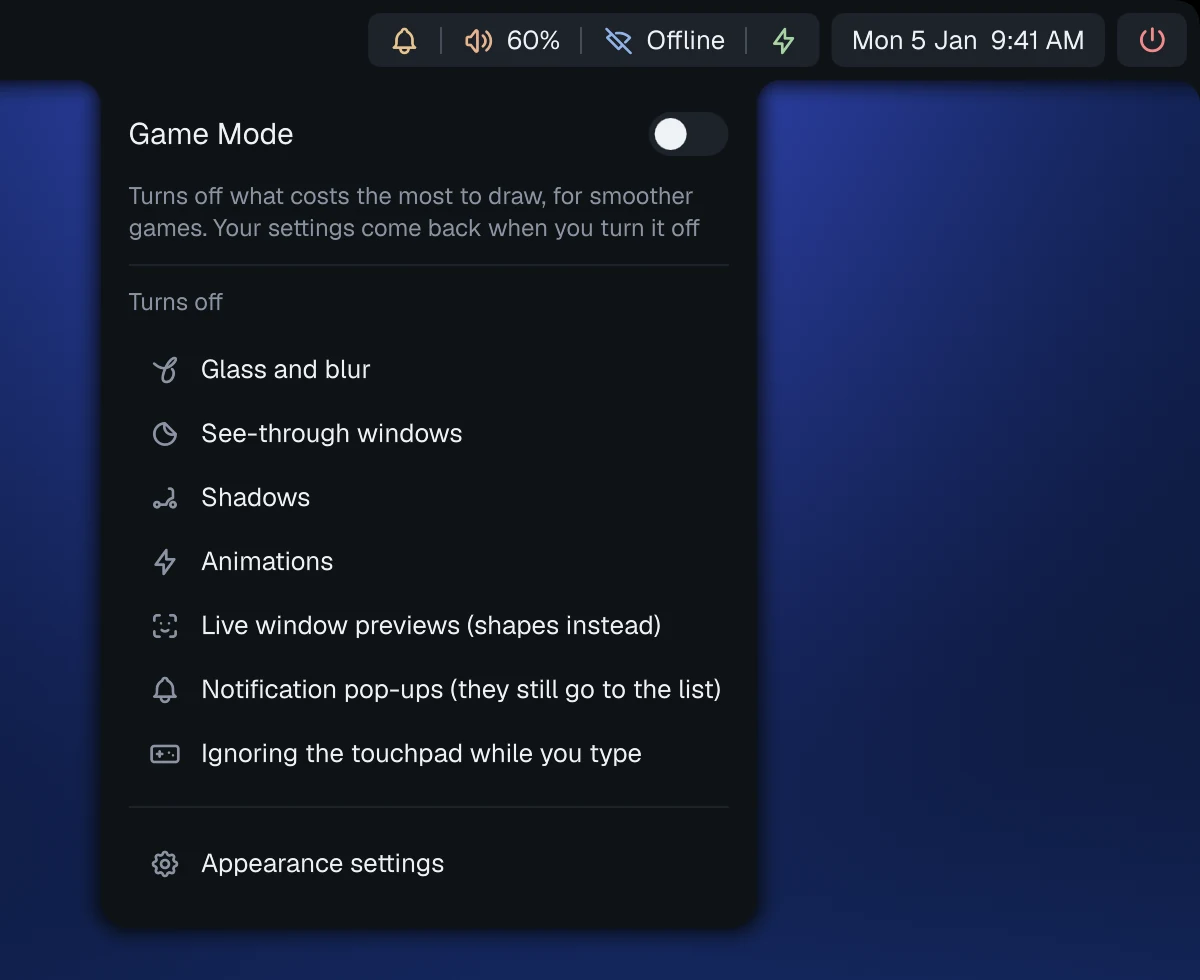
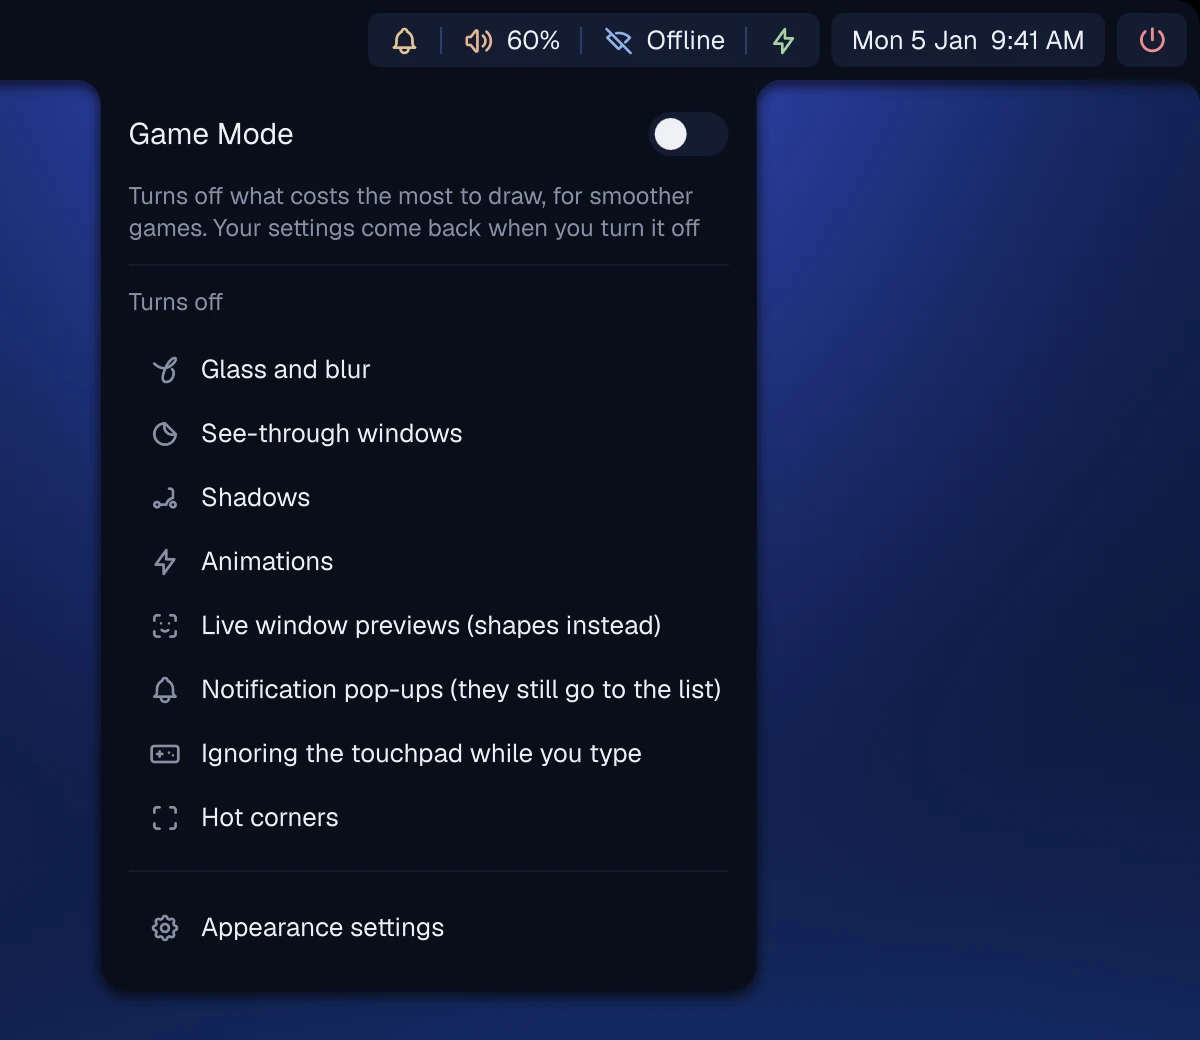
fix(accessibility): every panel control has a name, and hot corners rest in game mode
- Icon-only buttons in the bar's panels are named for a screen reader
  (Clear all, the calendar's month arrows, the control center's
  Settings, Power and media buttons), and a panel's title switch takes
  its title's words: each was read out as just "button". The keyboard
  walk through every panel now fails on any control without a name.
- Your own wallpapers in Settings are named by their file, and the one
  in use is said to be checked.
- Hot corners rest in game mode, where games that scroll at the screen's
  edges set them off; the game mode panel, Settings and the docs say so.

diff --git a/shell/shell.qml b/shell/shell.qml
@@ -140,17 +140,23 @@ ShellRoot {
         // (a card's close button and a space's delete show only once theirs has the keyboard):
         // { stops: what each says, gaps: every gap seen }
         function panelWalk(): string {
-            const gaps = popouts.unreachable(), said = [];
+            const gaps = popouts.unreachable(), said = [], unnamed = [];
             popouts.focusFirst(true);
             for (let i = 0; i < 200; i++) {
                 const f = popouts.contentItem.Window.activeFocusItem;
                 said.push(Config.textOf(f) || String(f).split("(")[0]);
+                // (a stop a screen reader reads as just "button": an icon with no words)
+                if (f && popouts.keyStops().indexOf(f) >= 0 && !(f.Accessible && String(f.Accessible.name || "").trim())) {
+                    const p = f.mapToItem(popouts.contentItem, 0, 0);
+                    const where = String(f).split("(")[0] + " @" + Math.round(p.x) + "," + Math.round(p.y);
+                    if (!unnamed.includes(where)) unnamed.push(where);
+                }
                 for (const g of popouts.unreachable()) if (!gaps.includes(g)) gaps.push(g);
                 const stops = popouts.keyStops();
                 if (stops.indexOf(f) < 0 || stops.indexOf(f) === stops.length - 1) break;
                 popouts.keyStep(true);
             }
-            return JSON.stringify({ stops: said, gaps: gaps });
+            return JSON.stringify({ stops: said, gaps: gaps, unnamed: unnamed });
         }
         // Arranging the menu bar without a pointer: what a drag, a click on the bar or a button
         // on the panel comes to (Config's bar… functions)
@@ -593,6 +599,7 @@ ShellRoot {
                          why: Config.iconsBusyWhy() },
                 picker: { open: picker.shown, mode: picker.mode, clipReads: picker.clipReads, emojiReads: Emoji.reads },
                 lookups: SettingsLookups.reads,
+                hotCorners: hotCorners.shownCount(),
                 trayMenu: { open: topBar.trayMenu.visible, depth: topBar.trayMenu.stack.length, hot: topBar.trayMenu.hot, chosen: topBar.trayMenu.testChosen,
                             lastInView: topBar.trayMenu.testHotInView() },
                 osd: { shown: osdPop.shown, mode: osdPop.mode, label: osdPop.label },

diff --git a/site/features.html b/site/features.html
@@ -133,7 +133,7 @@
         <li>Notifications, keyboard layout, Bluetooth, volume, Wi-Fi and battery, each optional; optionally tucked behind one button</li>
         <li>Clipboard (with how many items it holds) and screenshot buttons, off until you switch them on</li>
         <li>A camera indicator, off until you put it on the bar: an open eye, lit, while an app is using your camera (hover for which), a closed one otherwise</li>
-        <li>Game mode button (off until you switch it on): its panel turns off glass, blur, see-through windows, shadows, animations, live window previews (the switcher and overview show each window's shape and app icon instead), notification pop-ups (they still go to the list), ignoring the touchpad while you type and the pointer's trail, for smoother games, and puts them all back as you had them after</li>
+        <li>Game mode button (off until you switch it on): its panel turns off glass, blur, see-through windows, shadows, animations, live window previews (the switcher and overview show each window's shape and app icon instead), notification pop-ups (they still go to the list), ignoring the touchpad while you type, hot corners and the pointer's trail, for smoother games, and puts them all back as you had them after</li>
         <li>Optional values beside them: clipboard items, game mode on or off, layout code, connected devices, volume percentage, network name and battery percentage</li>
         <li>Clock: 12 or 24 hour, seconds, the date (12 hour with the date, no seconds, to start with)</li>
         <li>Power button</li>

diff --git a/shell/panels/ControlPanel.qml b/shell/panels/ControlPanel.qml
@@ -127,6 +127,7 @@ Column {
                     // Flat and solid, with glass too: the card's own solid colour, no edge and
                     // nothing showing through; under the pointer, the muted hover over it
                     readonly property color base: Config.palette.card
+                    Accessible.name: modelData.act === "settings" ? "Settings" : "Power"
                     color: controlButtonHover.hovered ? Qt.tint(base, Config.hover) : base
                     HoverHandler { id: controlButtonHover }
                     onClicked: {
@@ -257,6 +258,8 @@ Column {
                                 delegate: RowButton {
                                     required property var modelData
                                     width: 32; height: 30
+                                    Accessible.name: modelData.act === "prev" ? "Previous track" : modelData.act === "next" ? "Next track"
+                                        : (controlView.player && controlView.player.isPlaying ? "Pause" : "Play")
                                     onClicked: {
                                         const p = controlView.player; if (!p) return;
                                         if (modelData.act === "prev") p.previous();

diff --git a/shell/HotCorners.qml b/shell/HotCorners.qml
@@ -74,7 +74,10 @@ Scope {
     // (the corners all ask at the same moment: the first starts it, and all hear the answer)
     function askPointer() { if (!cursorCheck.running) cursorCheck.running = true; }
 
+    // (the tests: how many corners are there to rest the pointer in)
+    function shownCount() { return cornersVariants.instances.filter(c => c.visible).length; }
     Variants {
+        id: cornersVariants
         model: [
             { top: true, left: true, key: "hotCornerTopLeft" },
             { top: true, left: false, key: "hotCornerTopRight" },
@@ -86,7 +89,8 @@ Scope {
             screen: Config.primaryScreen           // the main display's corners (Settings → Displays)
             required property var modelData
             readonly property string action: Config.s[modelData.key]
-            visible: action !== "none"
+            // (resting in game mode: games that scroll at the screen's edges set them off mid-game)
+            visible: action !== "none" && !Config.gameMode
             anchors { top: modelData.top; bottom: !modelData.top; left: modelData.left; right: !modelData.left }
             implicitWidth: 2; implicitHeight: 2
             color: "transparent"

diff --git a/site/docs/night-light.html b/site/docs/night-light.html
@@ -60,10 +60,11 @@
         <li>Notification pop-ups (they still go to the list, so you won't miss anything)</li>
         <li>Nova's answer sound</li>
         <li>Ignoring the touchpad while you type, since games often use both at once</li>
+        <li>Hot corners, since games that scroll at the screen's edges would set them off</li>
       </ul>
       <figure class="shot">
-        <img src="img/panel-gamemode.webp" width="600" height="490" loading="lazy"
-          alt="The game mode panel: its switch, a short description, and the list of what it turns off, from Glass and blur to Ignoring the touchpad while you type">
+        <img src="img/panel-gamemode.webp" width="600" height="520" loading="lazy"
+          alt="The game mode panel: its switch, a short description, and the list of what it turns off, from Glass and blur to Hot corners">
       </figure>
       <p>None of your settings are changed. When you turn game mode off, everything comes back just as you had it.</p>
 

diff --git a/shell/panels/NotificationsPanel.qml b/shell/panels/NotificationsPanel.qml
@@ -30,6 +30,7 @@ Column {
             spacing: 8
             Label { anchors.verticalCenter: parent.verticalCenter; text: "Do Not Disturb"; color: pop.dim; font.pixelSize: Config.text(12) }
             Switch {
+                name: "Do Not Disturb"
                 anchors.verticalCenter: parent.verticalCenter
                 checked: pop.notifs ? pop.notifs.quiet : false
                 onToggled: if (pop.notifs) pop.notifs.setQuiet(!pop.notifs.quiet)
@@ -38,6 +39,7 @@ Column {
                 visible: notifView.list.length > 0
                 width: 30; height: 28
                 danger: true
+                Accessible.name: "Clear all notifications"
                 onClicked: if (pop.notifs) pop.notifs.clearAll()
                 Icon { anchors.centerIn: parent; code: 0xEB41; font.pixelSize: 16; color: pop.danger }
             }

diff --git a/site/docs/hot-corners.html b/site/docs/hot-corners.html
@@ -31,7 +31,8 @@
       <p class="crumb">Windows and workspaces</p>
       <h1>Hot corners</h1>
       <p class="lead">Rest the pointer in a corner of your screen and Slate does something for you: opens the overview, locks the
-        screen, and so on. None are set to start with, so nothing happens by surprise.</p>
+        screen, and so on. None are set to start with, so nothing happens by surprise. They rest in
+        <a href="night-light.html#game-mode">game mode</a>, where games that scroll at the screen's edges would set them off.</p>
 
       <h2>Setting them up</h2>
       <p>Open <span class="path"><i class="ti">&#xEB20;</i> Settings → Hot Corners</span>. A picture of your screen shows

diff --git a/site/docs/control-centre.html b/site/docs/control-centre.html
@@ -164,7 +164,7 @@
       <h3>Game mode</h3>
       <p>A switch, and the list of what game mode turns off: glass and blur, see-through windows, shadows,
         animations, live window previews (shapes show instead), notification pop-ups (they still go to the list)
-        and ignoring the touchpad while you type (and the pointer's trail, when it's on). Turning it off puts everything back as you had it.</p>
+        ignoring the touchpad while you type and hot corners (and the pointer's trail, when it's on). Turning it off puts everything back as you had it.</p>
 
       <h3>Window mode</h3>
       <p>The button before the workspace dots shows how the workspace you're on arranges its windows:

diff --git a/shell/panels/GameModePanel.qml b/shell/panels/GameModePanel.qml
@@ -36,7 +36,8 @@ Column {
                 { code: 0xEA38, label: "Animations" },
                 { code: 0xEA9B, label: "Live window previews (shapes instead)" },
                 { code: 0xEA35, label: "Notification pop-ups (they still go to the list)" },
-                { code: 0xEB63, label: "Ignoring the touchpad while you type" }
+                { code: 0xEB63, label: "Ignoring the touchpad while you type" },
+                { code: 0xF7A0, label: "Hot corners" }
             ].concat(Config.s.pointerTrail ? [{ code: 0xF1D4, label: "The pointer's trail" }] : [])
             delegate: Item {
                 required property var modelData

diff --git a/shell/settings/pages/HotCornersPage.qml b/shell/settings/pages/HotCornersPage.qml
@@ -16,7 +16,7 @@ Column {
         { value: "screenoff", label: "Turn screen off" }
     ]
     PageTitle { text: "Hot Corners" }
-    IntroText { text: "Rest the pointer in a corner of the screen to run an action." }
+    IntroText { text: "Rest the pointer in a corner of the screen to run an action. They rest in game mode, where games that scroll at the screen's edges would set them off." }
     // The screen, with each corner's action; click one to set it below
     property string corner: "TopLeft"
     readonly property string cornerKey: "hotCorner" + corner          // (its setting: hotCornerTopLeft…)

diff --git a/shell/settings/WallTile.qml b/shell/settings/WallTile.qml
@@ -97,6 +97,10 @@ Item {
     activeFocusOnTab: visible && enabled
     Keys.onPressed: e => { if (e.key === Qt.Key_Return || e.key === Qt.Key_Enter || e.key === Qt.Key_Space) { tile.picked(); e.accepted = true; } }
     Accessible.role: Accessible.Button
-    Accessible.name: tile.title
+    // (its name as shown under it: Slate's own by its title, yours by the file's name; and which
+    // is the wallpaper now)
+    Accessible.name: tile.title || fileName
+    Accessible.checkable: true
+    Accessible.checked: current
     FocusRing { round: 10 }
 }

diff --git a/shell/panels/Switch.qml b/shell/panels/Switch.qml
@@ -5,6 +5,9 @@ import qs
 Rectangle {
     // (a screen reader: a check box it can switch)
     Accessible.role: Accessible.CheckBox
+    // (what it switches: its own name, else the words of the title it sits in, "Game Mode")
+    property string name: ""
+    Accessible.name: name !== "" ? name : (parent && typeof parent.text === "string" ? parent.text : "")
     Accessible.checkable: true
     Accessible.checked: checked
     Accessible.onToggleAction: toggled()
